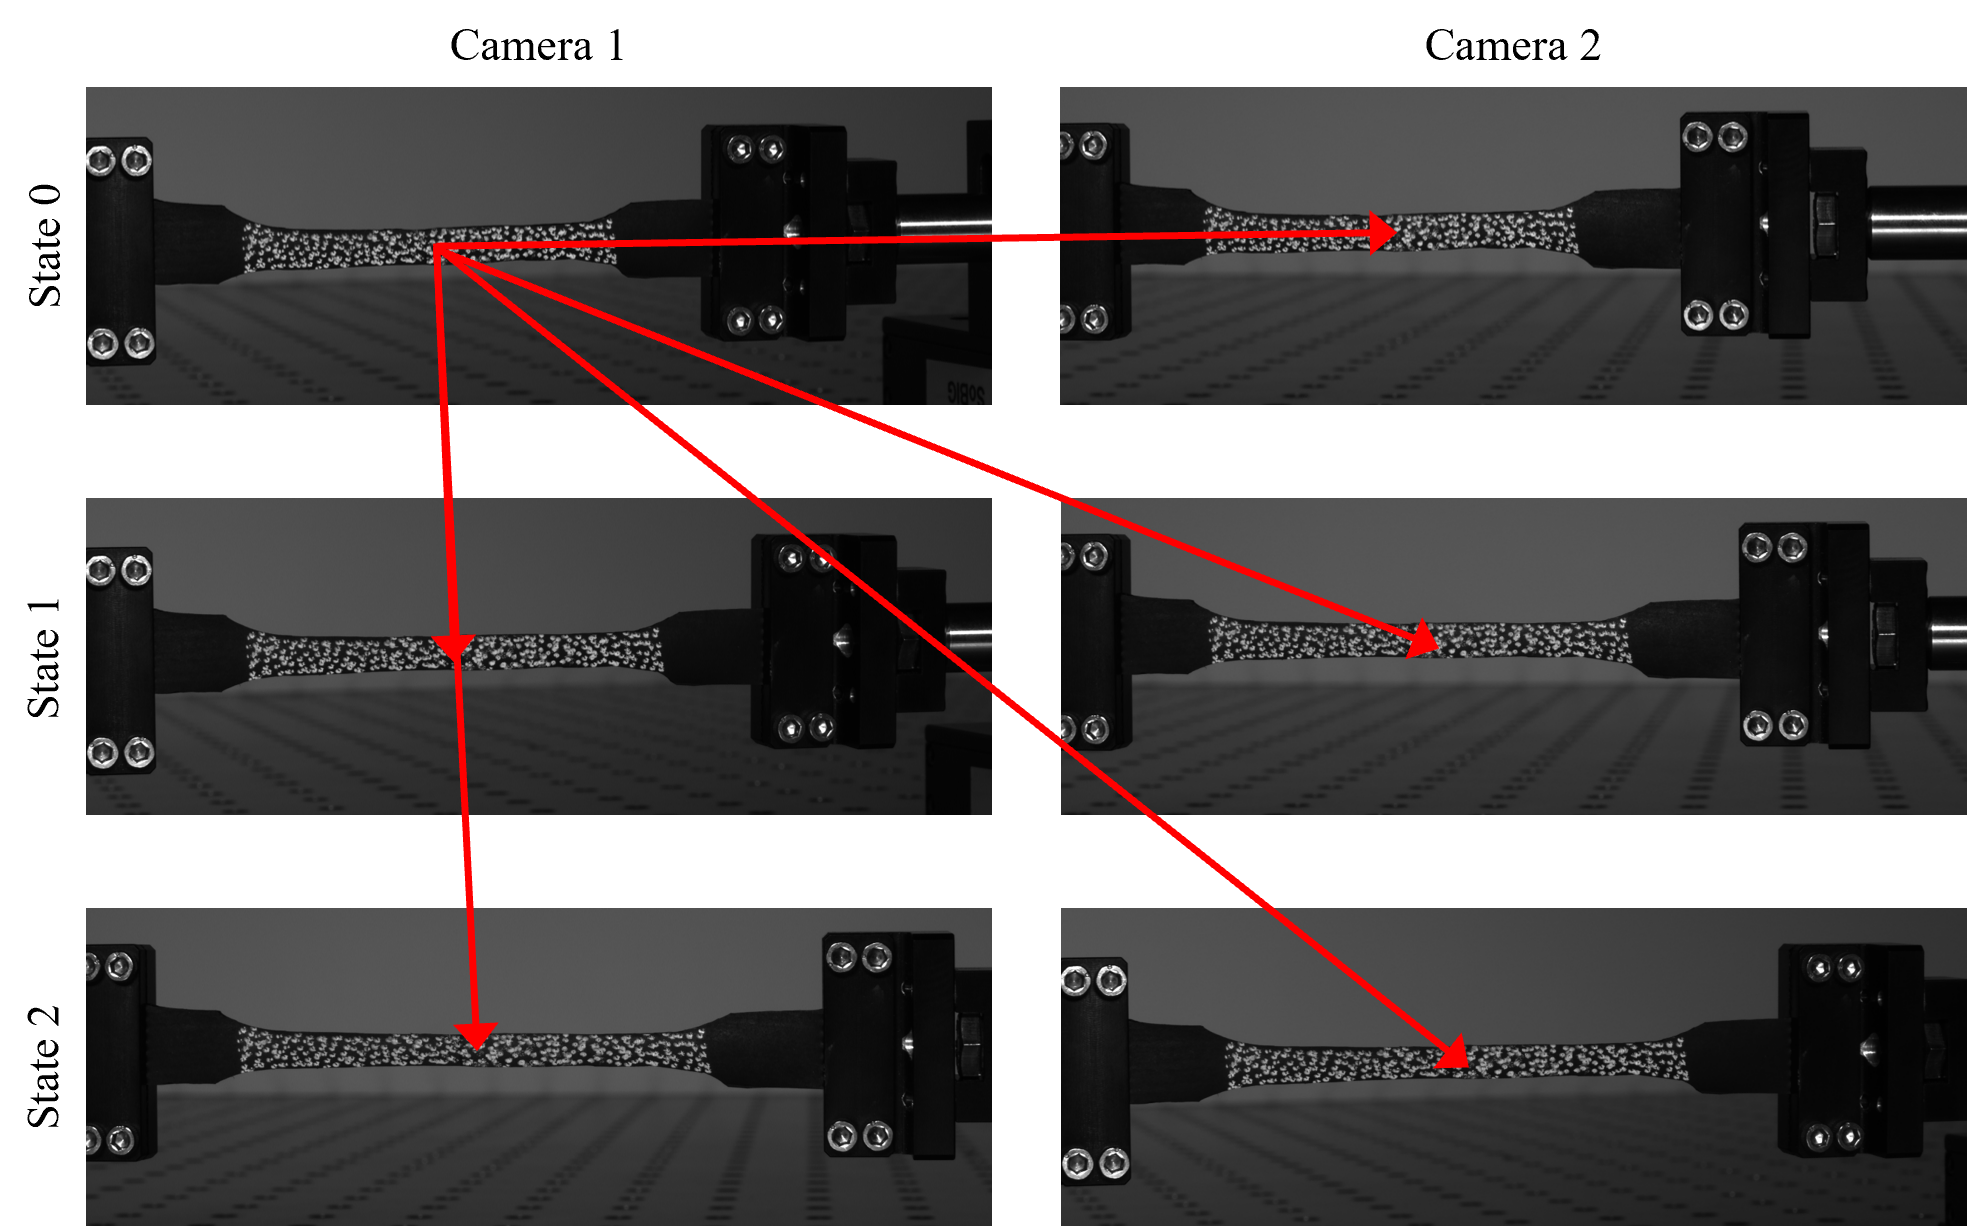
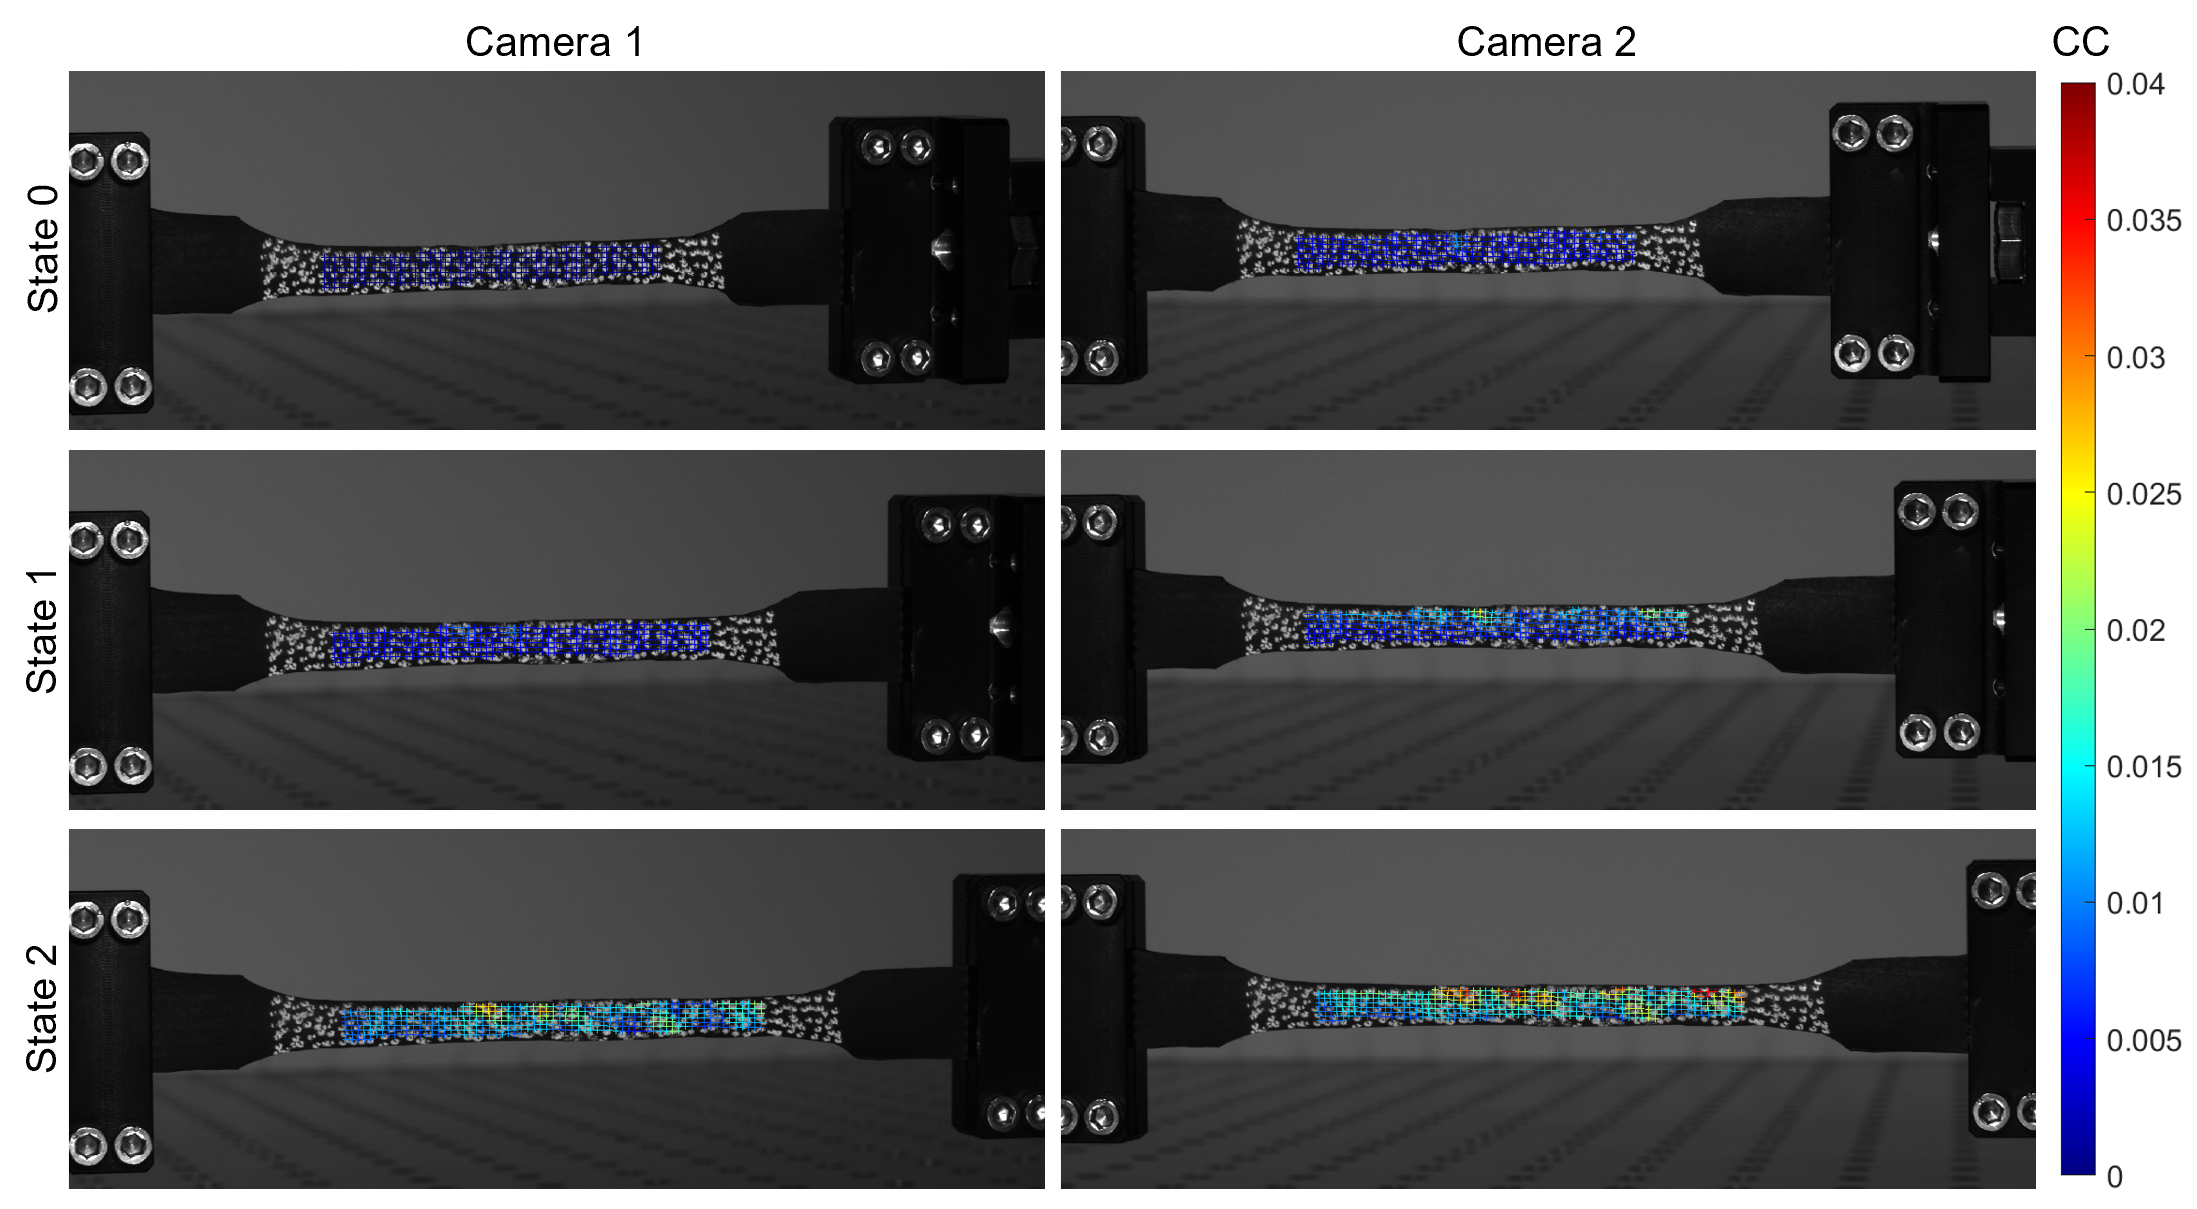
update paper

diff --git a/paper/paper.md b/paper/paper.md
@@ -37,7 +37,7 @@ The package is composed of four main scripts: 1) stereo calibration; 2) image cr
 
 # Statement of need
 
-3D-DIC is useful in numerous applications where the full-field displacements and strains are required, primarily for measuring the mechanical response of materials and structures and for characterizing the mechanical properties, with widespread applications from nano- to macro-scale, and ever-growing developments and progress [@Reu2015, @Sutton2017, @Pan2018]. 3D-DIC is preferable over strain gages and extensometers due to its non-contact nature and the large amount of information that can be collected.
+3D-DIC is useful in numerous applications where the full-field displacements and strains are required, primarily for measuring the mechanical response of materials and structures and for characterizing the mechanical properties, with widespread applications from nano- to macro-scale, and rapid progress and developments [@Reu2015, @Sutton2017, @Pan2018]. 3D-DIC is preferable over strain gages and extensometers due to its non-contact nature and the large amount of information that can be collected.
 
 Commercial 3D-DIC software are typically expensive, proprietary and closed-source, which may pose a barrier, especially for students and researchers. Notable free and open-source 3D-DIC contributions include `DICe` [@Turner2015], `ADIC3D` [@Atkinson2021], and `MultiDIC` [@Solav2018]. Each of these packages uses different algorithms for correlation and stereo calibration, and requires different calibration targets. One of the main advantages of open-source software is the ability to compare their results and performance, and cross-validate  implementation of different algorithms and approaches.
 
@@ -45,48 +45,40 @@ Specifically, our previous toolbox `MultiDIC` focused on multi-view applications
 
 # Algorithms and workflow
 The entire 3D-DIC procedure in `DuoDIC` is organized in four main scripts, which the user can run without having to interact with any MATLAB syntax. Figure \autoref{fig:workflow} outlines the workflow of the 3D-DIC procedure. The functionality and algorithms incorporated in each step are detailed below.
+The figures in this section represent data that is included with the software. The experimental setup consisted of two machine-vision cameras (BFS-U3-51S5M-C, FLIR, USA) equipped with a 5.0 MP Sony IMX250 monochrome sensor and a 12.5 mm lens (Fujinon HF12.5SA-1, Fujifilm Corporation, Japan). The cameras were synchronously hardware-triggered using a MatchID triggerbox (MatchID, Belgium). A rubber dog-bone specimen was mounted on an optical table (Thorlabs, USA), such that its left end was fixed and its right end was moved to the right in 20 steps of 1 mm. In each step, simultaneous images were captured by both cameras.
 
 ![DuoDIC algorithm workflow. Each color represent one main script\label{fig:workflow}](fig_workflow.png)
 
 ## Step 1: Stereo camera calibration
-In this step, the intrinsic and extrinsic parameters of both cameras are computed, by integrating functions from MathWorks Computer Vision Toolbox, which implement algorithms by Zhang [@Zhang2000], Heikkila and Silven [@Heikkila1997], Bouguet [@Bouguet], and Bradski and Kaehler [@Bradski2008]. The script receives multiple images of a checkerboard target captured simultaneously by two cameras in a stereo pair. The checkerboard pattern in each image is automatically detected, and used for calibrating the camera intrinsic and stereo parameters. The intrinsic parameters include focal lengths, principal point (optical center), and up to 6 distortion coefficients. The user can choose between [0,2,3] radial distortion coefficients, [0,2] tangential distortion coefficients, and [0,1] skew parameter. The stereo camera parameters comprise the position and orientation of the second camera with respect to the first. The estimated camera parameters are then used for computing the reprojection errors, which represent the distance between the reprojected and the detected pattern points, and comprise the accuracy of the estimated camera parameters.
+In this step, the intrinsic and extrinsic parameters of both cameras are computed, by integrating functions from MathWorks Computer Vision Toolbox, which implement algorithms by Zhang [@Zhang2000], Heikkila and Silven [@Heikkila1997], Bouguet [@Bouguet], and Bradski and Kaehler [@Bradski2008]. The script receives multiple images of a checkerboard target captured simultaneously by two cameras in a stereo pair. The checkerboard pattern in each image is automatically detected, and used for calibrating the camera intrinsic and stereo parameters. The intrinsic parameters include focal lengths, principal point (optical center), and up to 6 distortion coefficients. The user can choose between [0,2,3] radial distortion coefficients, [0,2] tangential distortion coefficients, and [0,1] skew parameter. The stereo camera parameters comprise the position and orientation of the second camera with respect to the first. The estimated camera parameters are then used for computing the reprojection errors, which represent the distance between the reprojected and the detected pattern points, and comprise the accuracy of the estimated camera parameters. An example of the results presented at the end of this step is shown in \autoref{fig:calibration}
+
+![Stereo Calibration results. The top panels show the detected and reprojected points for a pair of stereo images. The bottom left panel shows the mean reprojection error for all pairs of images, and the bottom right panel shows the estimated positions and orientations of the cameras with respect to the checkerboard pattern images. \label{fig:calibration}](fig_calibration.png)
 
 ## Step 2: Image cross-correlation (2D-DIC)
 In this step, the toolbox receives multiple images of the speckled test object captured simultaneously by the same camera pair. Typically, the first pair of images represents the unloaded (or undeformed) configuration and the rest of the images represent deformed states. Ncorr toolbox [@Blaber2015] is utilized in this step to detect a dense grid of matching points on all images. Although Ncorr was created as a 2D-DIC toolbox, receiving images from a single camera, `DuoDIC` utilizes it to detect matching points on images taken from two different views. All the images from both cameras are correlated with the reference image, to detect corresponding points in the selected region of interest (ROI), as demonstrated in \autoref{fig:corr}. Furthermore, the grid of correlated points is meshed with triangular elements, which are used for deformation and strain calculation, as described in Step 4.
 
-![image point correspondence computed using `Ncorr` and `DuoDIC`.\label{fig:corr}](fig_corr.png)
+![Image point matching computed using `Ncorr` and `DuoDIC`. The grid of corresponding matched points are plotted with crosses overlaid on each image, with color representing their correlation coefficient (CC) with the reference image (camera 1, state 1, top left panel). \label{fig:corr}](fig_corr.png)
 
 
 ## Step 3: 3D reconstruction
-The results from Step 1 and Step 2 are combined in this step to obtain the 3D position of each image point using stereo triangulation. The set of matching points on each pair of stereo images (as computed in Step 2) are first being undistorted using the intrinsic camera parameters of each camera, according to the distortion model selected in Step 1. Consequently, the image points are transformed into 3D world points using the stereo camera parameters computed in Step 1.
+The results from Step 1 and Step 2 are combined in this step to obtain the 3D position of each image point using stereo triangulation. The set of matching points on each pair of stereo images (as computed in Step 2) are first being undistorted using the intrinsic camera parameters of each camera, according to the distortion model selected in Step 1. Consequently, the image points are transformed into 3D world points using the stereo camera parameters computed in Step 1. In addition, the reprojection error is obtained for each point, by calculating the distance (in pixels) between the detected and the reprojected point. At the end of this step, the 3D point cloud and triangulated surface are plotted and animated, with the face colors representing the values of the matching correlation coefficient and the reprojection errors, as shown in \autoref{fig:step3}.
+
+![3D reconstruction and plotting of the correlation coefficients and the reprojection errors.\label{fig:step3}](fig_step3.png)
 
 ## Step 4: Post processing
-The 3D coordinates calculated in Step 3 are used in this step to derive the full-field displacement, deformation, and strain maps. The displacements are calculated for each point (vertices of the triangular elements), and the deformations and strains are calculated for each triangular element using the Cosserat point element method [@Solav2014, @Solav2016, @Solav2017, @Solav2017b]. Detailed information on the post processing methods can be found in the `MultiDIC` paper [@Solav2018]. In short, for each triangular element, the position vectors of the vertices are used to calculate the deformation gradient tensor ($\textbf{F}$), from which the right and left Cauchy-Green deformation tensors are derived ($\textbf{C}$ and $\textbf{B}$, respectively), as well as the Green-Lagrangian and Eulerian-Almansi strain tensors ($\textbf{E}$ and $\textbf{e}$, respectively). The principal components and directions of these tensors are computed for deriving the principal stretches and strains ($\lambda_{i}$ and $E_{i}$, respectively), as well as the equivalent strain, maximal shear strain, and area change.
-Moreover, Step 4 offers numerous plotting options, as demonstrated in the next section.
-
-# Validation and demonstration
-The following tests were performed to validate the code and demonstrate its metrological capabilities. The first two datasets are included as sample data with the software.
-
-## Experimental setup
-The stereo camera setup consisted of two machine-vision cameras (BFS-U3-51S5M-C, FLIR, USA) equipped with a 5.0 MP Sony IMX250 monochrome sensor and a 12.5 mm lens (Fujinon HF12.5SA-1, Fujifilm Corporation, Japan). The cameras were synchronously hardware-triggered using a MatchID triggerbox (MatchID, Belgium).
-
-## Rigid body motion (null strain) test
-To assess the metrological performance, we performed a rigid body motion experiment, whereby a speckled cylinder was translated using a motorized linear translation stage (PT1/M-Z8, Thorlabs, USA), in 10 steps of 0.1 mm increment. This test can be used to quantify the errors in the displacement, by comparing the displacements measured using the translation stage with those computed using 3D-DIC. In addition, since strain is expected to be zero for any rigid body motion, any non-zero strains measured represent measurement errors.
-
-<!-- ![Displacement and strain errors.\label{fig:errors}](fig_errors.png) -->
-
-## Uniaxial tension
-A rubber dog-bone specimen was mounted such that its left end is fixed and its right end is moved to the right in 20 steps of 1 mm. In each step, simultaneous images were captured by both cameras. Example results are shown in Figure ??? in terms of the displacement magnitude and the principal strains.
-as demonstrated in \autoref{fig:princ_stretch_3d}
-as demonstrated in \autoref{fig:disp_2d}
+The 3D coordinates calculated in Step 3 are used in this step to derive the full-field displacement, deformation, and strain maps. The displacements are calculated for each point (vertices of the triangular elements), and the deformations and strains are calculated for each triangular element using the Cosserat point element method [@Solav2014, @Solav2016, @Solav2017, @Solav2017b]. Detailed information on the post processing methods can be found in the `MultiDIC` paper [@Solav2018]. In short, for each triangular element, the position vectors of the vertices are used to calculate the deformation gradient tensor ($\textbf{F}$), from which the right and left Cauchy-Green deformation tensors are derived ($\textbf{C}$ and $\textbf{B}$, respectively), as well as the Green-Lagrangian and Eulerian-Almansi strain tensors ($\textbf{E}$ and $\textbf{e}$, respectively). The principal components and directions of these tensors are computed for deriving the principal stretches and strains ($\lambda_{i}$ and $E_{i}$, respectively), as well as the equivalent strain, maximal shear strain, and area change. \autoref{fig:princ_stretch_3d} and \autoref{fig:disp_2d} show two example figures, plotting the first and second principal Lagrangian strains (magnitude and directions) on the 3D surface, and the displacement magnitudes overlaid on the images, respectively.
 
 ![Principal stretches.\label{fig:princ_stretch_3d}](fig_princ_stretch_3d.png)
 
 ![Displacement magnitudes.\label{fig:disp_2d}](fig_disp_2d.png)
 
-## Inflation
-Bicycle tube inflated to five different pressures:
+# Validation using a rigid body motion (RBM) test
+To assess the metrological performance of `DuoDIC`, we performed a rigid body motion experiment, whereby a speckled cylinder was translated using a motorized linear translation stage (PT1/M-Z8, Thorlabs, USA), in 10 increments of 0.1 mm. By comparing the displacements measured using the translation stage with those computed using 3D-DIC, the displacement errors were quantified, as shown in  \autoref{fig:disp_err}. In addition, since strain is expected to vanish for any RBM, any non-zero strains measured represent measurement errors. \autoref{fig:strain_err} plots the strains measured during the RBM translations.
 
+![Displacement errors.\label{fig:disp_err}](fig_disp_err.png)
+
+![Strain errors.\label{fig:strain_err}](fig_strain_err.png)
+<!-- ![Displacement and strain errors.\label{fig:errors}](fig_errors.png) -->
 
 # Acknowledgements
 This project was supported by Dana Solav's Jacques Lewiner Career Advancement Chair.
